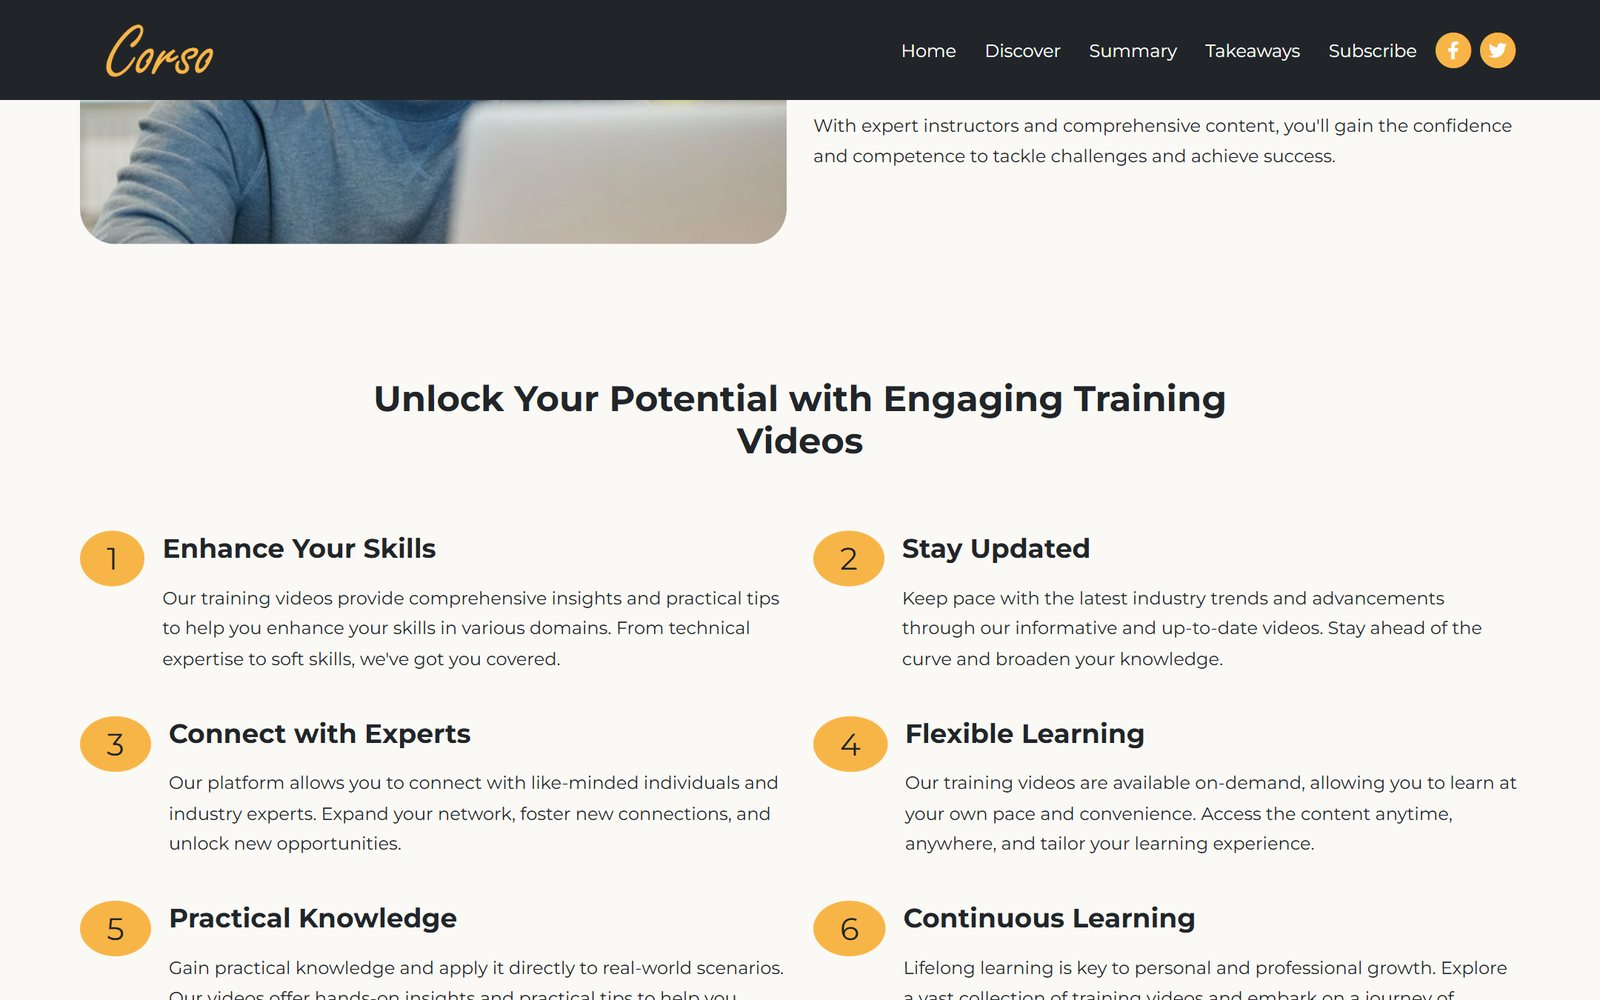
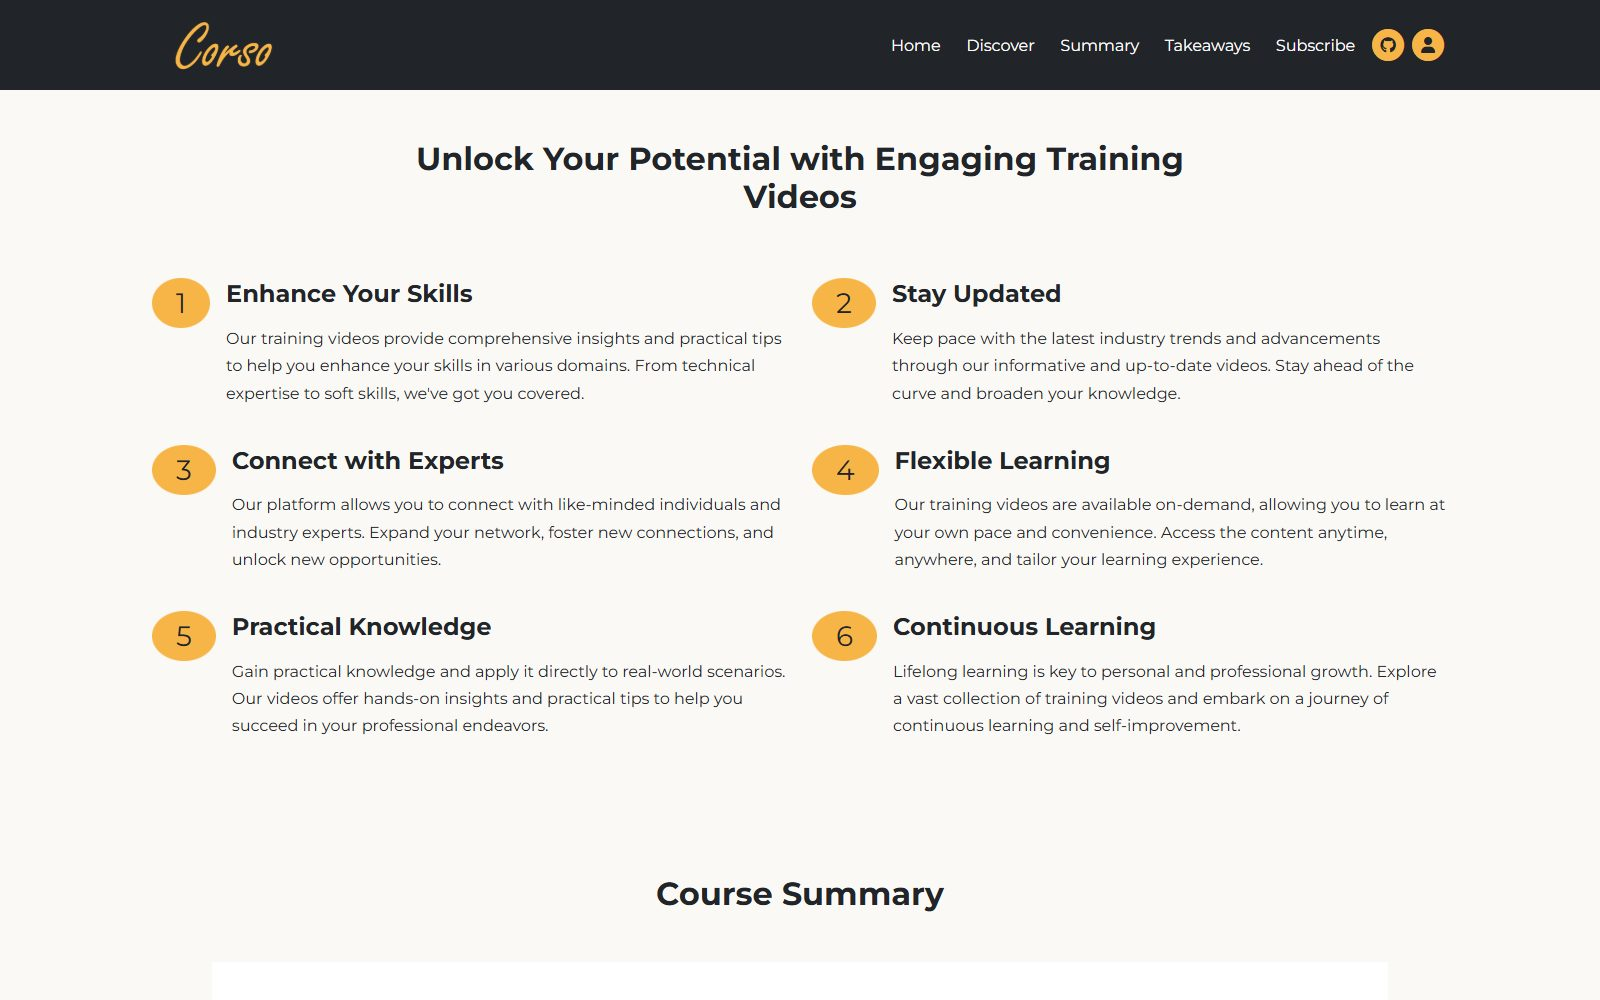
Update Corso entry for the v2 clean-up and live site
- New screenshots from the live GitHub Pages site
- Link the live site and the now-public source (rsk0110/webproject)
- Add a "v2 clean-up" section on built.html; note the v1-course-project tag
- Project cards can take a `source` link instead of "Request source"

diff --git a/index.html b/index.html
@@ -288,6 +288,7 @@
     .resume-doc h4 { text-transform: uppercase; letter-spacing: .08em; font-size: .78rem; color: #1d4ed8; border-bottom: 1.5px solid #e5e7eb; padding-bottom: .25rem; margin: 1.2rem 0 .6rem; }
     .resume-doc .row { display: flex; justify-content: space-between; gap: 1rem; flex-wrap: wrap; font-weight: 600; }
     .resume-doc .row span:last-child { font-weight: 400; color: #4b5563; font-size: .85rem; }
+    .resume-doc .row a { color: #1d4ed8; text-decoration: underline; }
     .resume-doc ul { list-style: disc; padding-left: 1.2rem; margin: .25rem 0 .6rem; color: #374151; }
     .resume-doc .sub { color: #4b5563; font-style: italic; }
     .resume-pane[hidden] { display: none; }
@@ -608,8 +609,8 @@
               <ul><li>Local-first committee-management app for Model UN chairs: delegation entry, roll call, automated quorum, simple-majority and two-thirds calculations.</li><li>Rules kept in framework-free, tested functions; GitHub Actions checks; works offline via IndexedDB.</li></ul>
               <div class="row"><span>Track Nector — Python · HTML · JSON · Render</span><span>Source on request</span></div>
               <ul><li>Self-hosted personal finance tracker using manual entry, so financial data stays private.</li></ul>
-              <div class="row"><span>Corso Website — HTML · Bootstrap · Sass · JavaScript</span><span>Source on request</span></div>
-              <ul><li>Responsive training-courses site with sticky navbar, carousel and registration forms; Sass build via npm scripts.</li></ul>
+              <div class="row"><span>Corso Website — HTML · Bootstrap · Sass · JavaScript</span><span><a href="https://github.com/Rsk0110/webproject" target="_blank" rel="noopener">Source on GitHub</a></span></div>
+              <ul><li>Responsive training-courses site with sticky navbar, carousel and registration forms; Sass build via npm scripts.</li><li>Later cleaned up: working forms with validation, accessibility fixes, ~70% smaller images; live on GitHub Pages.</li></ul>
               <h4>Hackathons</h4>
               <ul><li>FormulaTech Hacks 2026 (Waterloo, Winner) · RevenueCat Shipaton 2026 · OpenCV AI Competition (AWS) 2026 · Nebius x NVIDIA Global AI Hackathon 2026 · IBM BOB 2.0 2026 · DPS MIS Doha 2025 · Birla School 2024 · CMU Qatar 2023</li></ul>
             </section>
@@ -735,8 +736,8 @@
       desc: "Self-hosted personal finance tracker for card balances and daily spending, built around manual entry so no bank account is linked and financial data stays private. Deployed with Render.",
       tags: ["Python", "HTML", "JSON", "Render"], img: "images/track-nector/tn-spending.jpg", link: "built.html#track-nector" },
     { title: "Corso Website", kind: "First web project", cat: "Web",
-      desc: "My first website, built while learning web design in a course with my teacher. A responsive site for training courses and workshops with a sticky navbar that changes on scroll, an image carousel, and registration and email-subscribe forms. Styles compiled from Sass via npm scripts.",
-      tags: ["HTML", "Bootstrap", "Sass", "JavaScript"], img: "images/corso/corso-hero.jpg", link: "built.html#corso" }
+      desc: "My first website, built while learning web design in a course with my teacher. A responsive site for training courses and workshops with a sticky navbar that changes on scroll, an image carousel, and registration and email-subscribe forms. Styles compiled from Sass via npm scripts. The design and content came from the course; I later came back to clean it up: working forms with validation, accessibility fixes and ~70% smaller images.",
+      tags: ["HTML", "Bootstrap", "Sass", "JavaScript"], img: "images/corso/corso-hero.jpg", link: "built.html#corso", live: "https://rsk0110.github.io/webproject/", source: "https://github.com/Rsk0110/webproject" }
   ];
 
   const EXPERIENCE = [
@@ -816,7 +817,7 @@
         ${p.link ? `<a class="btn btn-primary btn-sm" href="${esc(p.link)}">Details & screenshots</a>` : ""}
         ${p.devpost ? `<a class="btn btn-primary btn-sm" href="${esc(p.devpost)}" target="_blank" rel="noopener">Devpost ↗</a>` : ""}
         ${p.live ? `<a class="btn btn-primary btn-sm" href="${esc(p.live)}" target="_blank" rel="noopener">Live Demo ↗</a>` : ""}
-        <button class="btn btn-ghost btn-sm" data-request="${esc(p.title)}">🔒 Request source</button>
+        ${p.source ? `<a class="btn btn-ghost btn-sm" href="${esc(p.source)}" target="_blank" rel="noopener">Source ↗</a>` : `<button class="btn btn-ghost btn-sm" data-request="${esc(p.title)}">🔒 Request source</button>`}
       </div>
     </article>`).join("");
   $("#filters").addEventListener("click", e => {

diff --git a/built.html b/built.html
@@ -374,9 +374,22 @@
                 </ul>
               </div>
             </div>
+            <div class="cols">
+              <div style="grid-column: 1 / -1">
+                <h4>v2 clean-up</h4>
+                <p class="lead" style="font-size:.95rem; margin:0 0 .5rem">The design and content came from the course. Later I came back to fix what was broken and tidy it up; the original is kept as the <code>v1-course-project</code> tag.</p>
+                <ul>
+                  <li>Fixed the broken Register links</li>
+                  <li>Forms now have labels, validation and a success state</li>
+                  <li>Alt text, a skip link and a proper heading order</li>
+                  <li>Removed unused images and compressed the rest (2.7 MB → 776 KB)</li>
+                  <li>Updated to Bootstrap 5.3.8</li>
+                </ul>
+              </div>
+            </div>
             <div data-gallery="corso"></div>
             <div class="chips"><span class="chip">HTML</span><span class="chip">Bootstrap</span><span class="chip">Sass</span><span class="chip">JavaScript</span></div>
-            <div class="build-links"><button class="btn btn-primary btn-sm" data-request="Corso Website">🔒 Request source code</button></div>
+            <div class="build-links"><a class="btn btn-primary btn-sm" href="https://rsk0110.github.io/webproject/" target="_blank" rel="noopener">Live site ↗</a><a class="btn btn-ghost btn-sm" href="https://github.com/Rsk0110/webproject" target="_blank" rel="noopener">Source on GitHub ↗</a></div>
           </article>
 
         </div>
